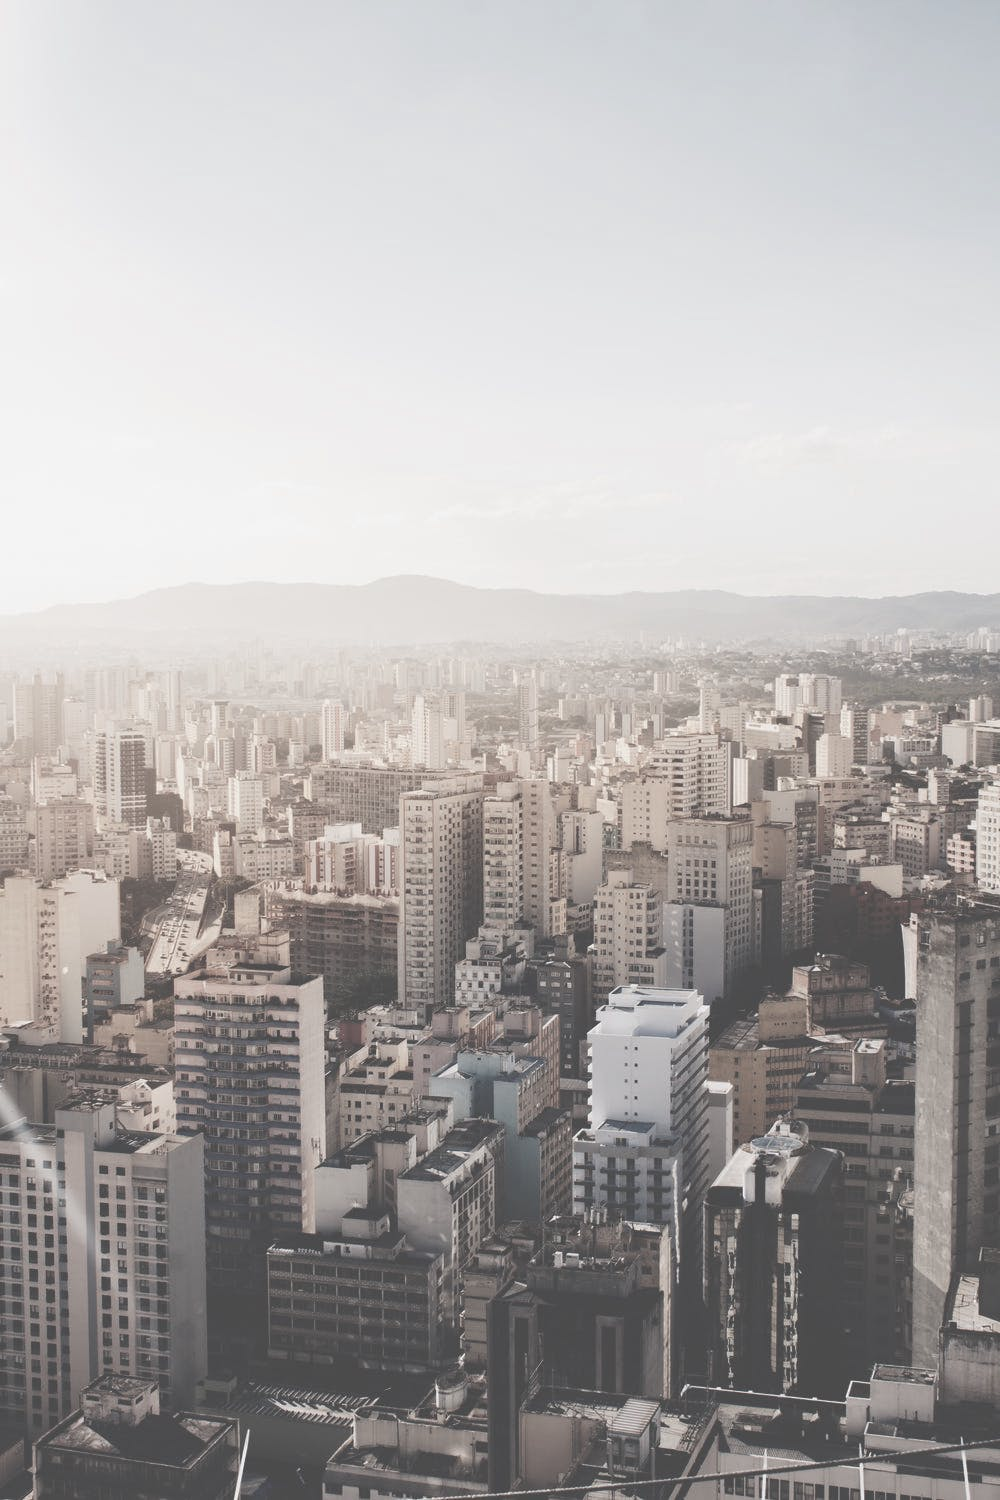
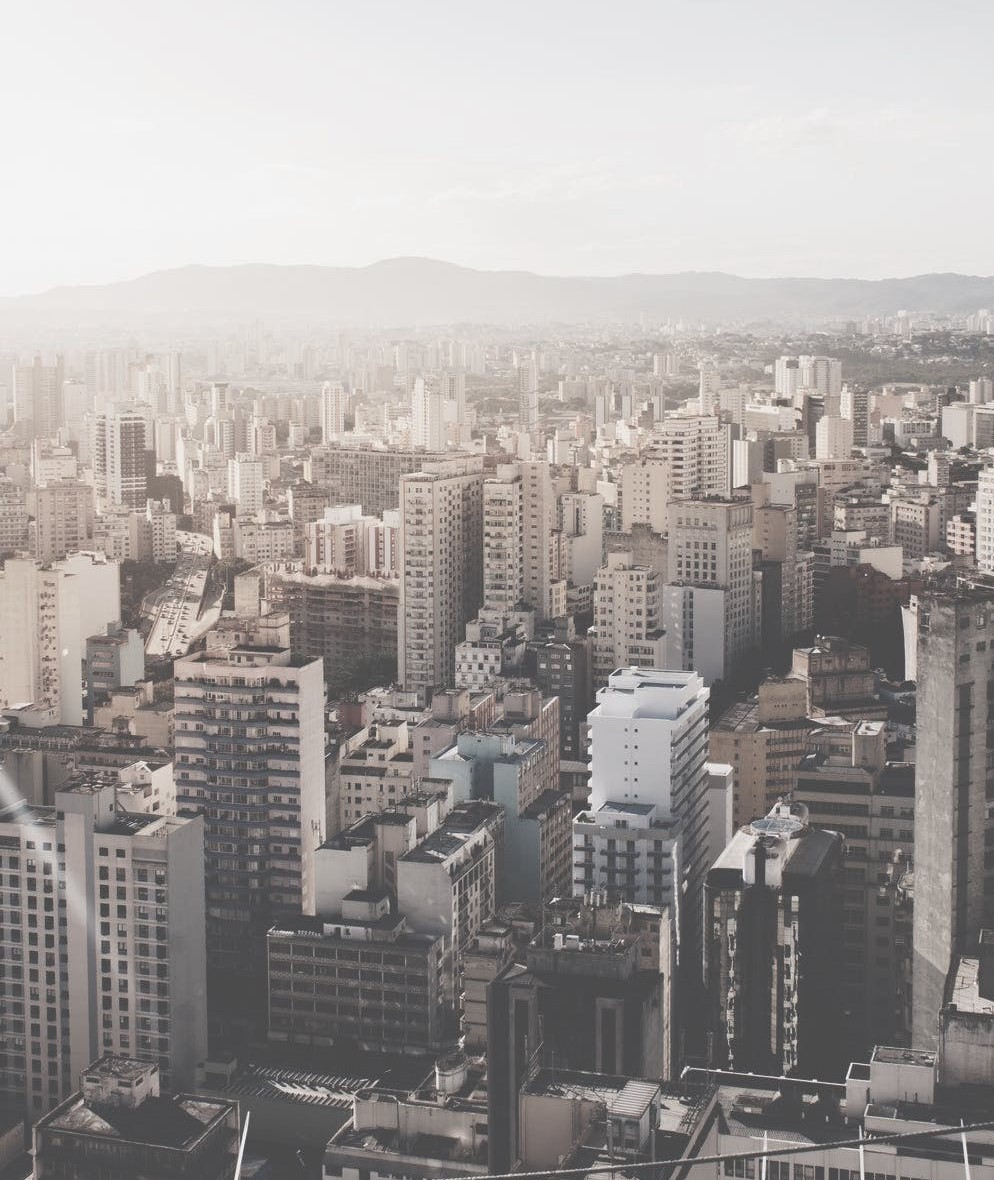
Changes to bckgrnd

diff --git a/index.html b/index.html
@@ -1,186 +1,186 @@
 <!DOCTYPE html>
 <html lang="en">
 
-  <head>
-    <meta charset="UTF-8">
-    <meta name="viewport" content="width=device-width, initial-scale=1.0">
-    <link href="https://cdn.jsdelivr.net/npm/bootstrap@5.0.2/dist/css/bootstrap.min.css" rel="stylesheet"
-      integrity="sha384-EVSTQN3/azprG1Anm3QDgpJLIm9Nao0Yz1ztcQTwFspd3yD65VohhpuuCOmLASjC" crossorigin="anonymous">
-    <link rel="preconnect" href="https://fonts.googleapis.com">
-    <link rel="preconnect" href="https://fonts.gstatic.com" crossorigin>
-    <link href="https://fonts.googleapis.com/css2?family=Montserrat&display=swap" rel="stylesheet">
-    <script src="https://ajax.googleapis.com/ajax/libs/jquery/3.5.1/jquery.min.js"></script>
-    <script src="https://cdnjs.cloudflare.com/ajax/libs/popper.js/1.16.0/umd/popper.min.js"></script>
-    <script src="https://cdn.jsdelivr.net/npm/bootstrap@5.0.2/dist/js/bootstrap.bundle.min.js"
-      integrity="sha384-MrcW6ZMFYlzcLA8Nl+NtUVF0sA7MsXsP1UyJoMp4YLEuNSfAP+JcXn/tWtIaxVXM" crossorigin="anonymous">
-    </script>
-    <link rel="stylesheet" href="https://cdn.jsdelivr.net/npm/bootstrap-icons@1.5.0/font/bootstrap-icons.css">
-    <link href="./CSS/headers.css" rel="stylesheet">
-    <link href="./CSS/index.css" rel="stylesheet">
-    <link rel="icon" type="image/x-icon" href="./favicon.ico" />
-    <title>ZeroPads - Home Page</title>
-  </head>
+<head>
+  <meta charset="UTF-8">
+  <meta name="viewport" content="width=device-width, initial-scale=1.0">
+  <link href="https://cdn.jsdelivr.net/npm/bootstrap@5.0.2/dist/css/bootstrap.min.css" rel="stylesheet"
+    integrity="sha384-EVSTQN3/azprG1Anm3QDgpJLIm9Nao0Yz1ztcQTwFspd3yD65VohhpuuCOmLASjC" crossorigin="anonymous">
+  <link rel="preconnect" href="https://fonts.googleapis.com">
+  <link rel="preconnect" href="https://fonts.gstatic.com" crossorigin>
+  <link href="https://fonts.googleapis.com/css2?family=Montserrat&display=swap" rel="stylesheet">
+  <script src="https://ajax.googleapis.com/ajax/libs/jquery/3.5.1/jquery.min.js"></script>
+  <script src="https://cdnjs.cloudflare.com/ajax/libs/popper.js/1.16.0/umd/popper.min.js"></script>
+  <script src="https://cdn.jsdelivr.net/npm/bootstrap@5.0.2/dist/js/bootstrap.bundle.min.js"
+    integrity="sha384-MrcW6ZMFYlzcLA8Nl+NtUVF0sA7MsXsP1UyJoMp4YLEuNSfAP+JcXn/tWtIaxVXM" crossorigin="anonymous">
+  </script>
+  <link rel="stylesheet" href="https://cdn.jsdelivr.net/npm/bootstrap-icons@1.5.0/font/bootstrap-icons.css">
+  <link href="./CSS/headers.css" rel="stylesheet">
+  <link href="./CSS/index.css" rel="stylesheet">
+  <link rel="icon" type="image/x-icon" href="./favicon.ico" />
+  <title>ZeroPads - Home Page</title>
+</head>
 
-  <style>
-    /* Navigation Formatting not active */
-    .list:not(.active) {
-      background-color: none;
-      color: black;
-    }
+<style>
+  /* Navigation Formatting not active */
+  .list:not(.active) {
+    background-color: none;
+    color: black;
+  }
 
-    /* Navigation Formatting active */
-    #active {
-      font-weight: bold !important;
-      border-bottom: 1px solid black;
-      padding-bottom: 2px;
-    }
+  /* Navigation Formatting active */
+  #active {
+    font-weight: bold !important;
+    border-bottom: 1px solid black;
+    padding-bottom: 2px;
+  }
 
-    #active:hover {
-      border-bottom: 1px solid white !important;
-    }
+  #active:hover {
+    border-bottom: 1px solid white !important;
+  }
 
-    
-    #active:hover {
-      border-bottom: 1px solid rgba(57, 181, 74, 1) !important;
-    }
 
-    /* Navigation Formatting not active */
-    .nav-pills .pill-1 .nav-link:not(.active) {
-      background-color: #fff;
-      color: black;
-    }
+  #active:hover {
+    border-bottom: 1px solid rgba(57, 181, 74, 1) !important;
+  }
 
-    /* Navigation Formatting active (faded) */
-    .nav-pills .pill-1 .nav-link{
-      background-color: rgba(57, 181, 74, 1);
-      color: white;
-    }
+  /* Navigation Formatting not active */
+  .nav-pills .pill-1 .nav-link:not(.active) {
+    background-color: #fff;
+    color: black;
+  }
 
-  </style>
+  /* Navigation Formatting active (faded) */
+  .nav-pills .pill-1 .nav-link {
+    background-color: rgba(57, 181, 74, 1);
+    color: white;
+  }
+</style>
 
-  <body>    
-    <!-- Navigation Bar-->
-    <div class="container">
-      <!-- Header Section-->
-      <header class="d-flex flex-wrap justify-content-center py-3 mb-4 bg-transparent">
-        <a href="index.html" class="d-flex align-items-center mb-3 mb-md-0 me-md-auto text-dark text-decoration-none">
-          <img id="logo" src="./images/header_logo.png" width="63" height="32">
-          <span class="fs-4">Team ZeroPads Group Assignment</span>
-        </a>
-        <nav class="navbar nav-expand-lg navbar-light">
-          <ul class="nav nav-pills">
-            <li class="nav-item pill-1"><a href="./index.html" class="nav-link active" aria-current="page">Home</a></li>
-            <li class="nav-item pill-1"><a href="./mls.html" class="nav-link">Find Housing</a>
-            </li>
-          </ul>
-        </nav>
-        <!-- <nav class="navbar nav-expand-lg bg-transparent">
+<body>
+  <!-- Navigation Bar-->
+  <div class="container">
+    <!-- Header Section-->
+    <header class="d-flex flex-wrap justify-content-center py-3 mb-4 bg-transparent">
+      <a href="index.html" class="d-flex align-items-center mb-3 mb-md-0 me-md-auto text-dark text-decoration-none">
+        <img id="logo" src="./images/header_logo.png" width="63" height="32">
+        <span class="fs-4">Team ZeroPads Group Assignment</span>
+      </a>
+      <nav class="navbar nav-expand-lg navbar-light">
+        <ul class="nav nav-pills">
+          <li class="nav-item pill-1"><a href="./index.html" class="nav-link active" aria-current="page">Home</a></li>
+          <li class="nav-item pill-1"><a href="./mls.html" class="nav-link">Find Housing</a>
+          </li>
+        </ul>
+      </nav>
+      <!-- <nav class="navbar nav-expand-lg bg-transparent">
           <ul class="nav bg-transparent">
             <li class="list"><a href="./index.html" class="nav-link" id="active" aria-current="page">Home</a></li>
             <li class="list"><a href="./mls.html" class="nav-link">Find Housing</a>
             </li>
           </ul>
         </nav> -->
-      </header>
-      <!-- End Header -->
-    </div>
-    <div class="background">
-      <div class="section"></div>
-      <div class="body">
-        <h1 class="fw-bold">ZeroPads Group Assignment</h1><br />
-        <p>Welcome to our group assignment for MIST7571E. <br />
-          We came up with this project with one goal in mind:
-          To create reuseable code to later use in our collaborations with the <a
+    </header>
+    <!-- End Header -->
+  </div>
+  <div class="background">
+    <div class="section"></div>
+    <div class="body">
+      <h1 class="fw-bold">ZeroPads Group Assignment</h1><br />
+      <p>Welcome to our group assignment for MIST7571E. <br />
+        We came up with this project with one goal in mind:
+        To create reuseable code to later use in our collaborations with the <a
           href="https://www.zeropads.org/">ZeroPads not-for-profit company </a> . After
-          meeting with our sponsor, we decided to move forward with an MLS
-          listings page to later merge into the ZeroPads website.
-          We've created a Real Estate listings application that allows you to search for homes that are
-          for sale by <strong>city</strong> and <strong>state.</strong>
-        </p><br />
+        meeting with our sponsor, we decided to move forward with an MLS
+        listings page to later merge into the ZeroPads website.
+        We've created a Real Estate listings application that allows you to search for homes that are
+        for sale by <strong>city</strong> and <strong>state.</strong>
+      </p><br />
 
-        <p>This project was writtin in HTML/ CSS/ JavaScript and it uses the 
-          <a href="https://rapidapi.com/datascraper/api/us-real-estate/"><strong>US Real
-            Estate</strong> API 
-          </a> found on Rapid API. <br />
-          You can find the API details below.<br />
-          This project is hosted using <strong>Github Pages</strong>.
-        </p><br />
-        
-        <a href="./mls.html">
-          <center><button class="button">Start Your Search</button>
-        </a> <br />
-        <a href='https://rapidapi.com/datascraper/api/us-real-estate' target="_blank"><button class="button">API
-            Discovery</button></a></center>
-        <br><br>
+      <p>This project was writtin in HTML/ CSS/ JavaScript and it uses the
+        <a href="https://rapidapi.com/datascraper/api/us-real-estate/"><strong>US Real
+            Estate</strong> API
+        </a> found on Rapid API. <br />
+        You can find the API details below.<br />
+        This project is hosted using <strong>Github Pages</strong>.
+      </p><br />
 
-        <h2 class="fw-bold title">Team Members</h2><br>
-        <table class="table table-bordered table-striped">
-          <thead>
-            <tr>
-              <th scope="col">Name</th>
-              <th scope="col">UGA Email</th>
-            </tr>
-          </thead>
-          <tbody>
-            <tr>
-              <th scope="row">Harli Bott</th>
-              <td>hjb15032@uga.edu</td>
-            </tr>
-            <tr>
-              <th scope="row">Aj Johnson</th>
-              <td>alj67699@uga.edu</td>
-            </tr>
-            <tr>
-              <th scope="row">Gary LeAndre</th>
-              <td>gary.leandre@uga.edu</td>
-            </tr>
-            <tr>
-              <th scope="row">Kevin Marshall</th>
-              <td>kevin.marshall@uga.edu</td>
-            </tr>
-            <tr>
-              <th scope="row">Christina Tomter</th>
-              <td>christina.tomter@uga.edu</td>
-            </tr>
-            <tr>
-              <th scope="row">Casey Powell</th>
-              <td>casey.powell@uga.edu</td>
-            </tr>
-          </tbody>
-        </table>
-        <br>
-        <div class="container-fluid py-4 question">
-          <h1>Questions?</h1>
-          <p>Reach out to our team members above and they will be happy to assist you with
-            any questions that you might have.
-          </p><br />
-        </div>
+      <a href="./mls.html">
+        <center><button class="button">Start Your Search</button>
+      </a> <br />
+      <a href='https://rapidapi.com/datascraper/api/us-real-estate' target="_blank"><button class="button">API
+          Discovery</button></a></center>
+      <br><br>
+
+      <h2 class="question ">Team Members</h2><br>
+      <table class="table table-bordered table-striped question">
+        <thead>
+          <tr>
+            <th scope="col">Name</th>
+            <th scope="col">UGA Email</th>
+          </tr>
+        </thead>
+        <tbody>
+          <tr>
+            <th scope="row">Harli Bott</th>
+            <td>hjb15032@uga.edu</td>
+          </tr>
+          <tr>
+            <th scope="row">Aj Johnson</th>
+            <td>alj67699@uga.edu</td>
+          </tr>
+          <tr>
+            <th scope="row">Gary LeAndre</th>
+            <td>gary.leandre@uga.edu</td>
+          </tr>
+          <tr>
+            <th scope="row">Kevin Marshall</th>
+            <td>kevin.marshall@uga.edu</td>
+          </tr>
+          <tr>
+            <th scope="row">Christina Tomter</th>
+            <td>christina.tomter@uga.edu</td>
+          </tr>
+          <tr>
+            <th scope="row">Casey Powell</th>
+            <td>casey.powell@uga.edu</td>
+          </tr>
+        </tbody>
+      </table>
+      <br>
+      <div class="container-fluid py-4 question">
+        <h1>Questions?</h1>
+        <p>Reach out to our team members above and they will be happy to assist you with
+          any questions that you might have.
+        </p>
       </div>
     </div>
+  </div>
 
-    <footer class="bg-light text-center text-white">
-      <!-- Grid container -->
-      <div class="container p-4 pb-0">
-        <!-- Section: Social media -->
-        <section class="mb-4">
-          <!-- Google -->
-          <a class="btn btn-primary btn-floating m-1"
-            style="background-color: #39b54a; border-color: #39b54a; border-radius: 0px;"
-            href="https://www.google.com/search?client=firefox-b-1-d&q=ZeroPads+Development+group" target="_blank"
-            role="button"><i class="bi bi-google"></i>
-          </a>
+  <footer class="bg-light text-center text-white">
+    <!-- Grid container -->
+    <div class="container p-4 pb-0">
+      <!-- Section: Social media -->
+      <section class="mb-4">
+        <!-- Google -->
+        <a class="btn btn-primary btn-floating m-1"
+          style="background-color: #39b54a; border-color: #39b54a; border-radius: 0px;"
+          href="https://www.google.com/search?client=firefox-b-1-d&q=ZeroPads+Development+group" target="_blank"
+          role="button"><i class="bi bi-google"></i>
+        </a>
 
-          <!-- Instagram -->
-          <a class="btn btn-primary btn-floating m-1"
-            style="background-color: #39b54a; border-color: #39b54a; border-radius: 0px;"
-            href="https://www.instagram.com/zeropads/" target="_blank" role="button"><i class="bi bi-instagram"></i>
-          </a>
-        </section>
-        <!-- Section: Social media -->
-      </div>
-      <div class="text-center p-3" style="background-color: rgba(0, 0, 0, 0.2);">
-        ZeroPads Development Group Inc.
-      </div>
-    </footer>
-  </body>
+        <!-- Instagram -->
+        <a class="btn btn-primary btn-floating m-1"
+          style="background-color: #39b54a; border-color: #39b54a; border-radius: 0px;"
+          href="https://www.instagram.com/zeropads/" target="_blank" role="button"><i class="bi bi-instagram"></i>
+        </a>
+      </section>
+      <!-- Section: Social media -->
+    </div>
+    <div class="text-center p-3" style="background-color: rgba(0, 0, 0, 0.2);">
+      ZeroPads Development Group Inc.
+    </div>
+  </footer>
+</body>
+
 </html>

diff --git a/CSS/index.css b/CSS/index.css
@@ -9,7 +9,8 @@
   width: 100%;
   background-size: cover;
   background-image: url("../images/city4.jpeg");
-  margin-bottom: 50px;
+  margin-bottom: 0px;
+  
 }
 
 .section {
